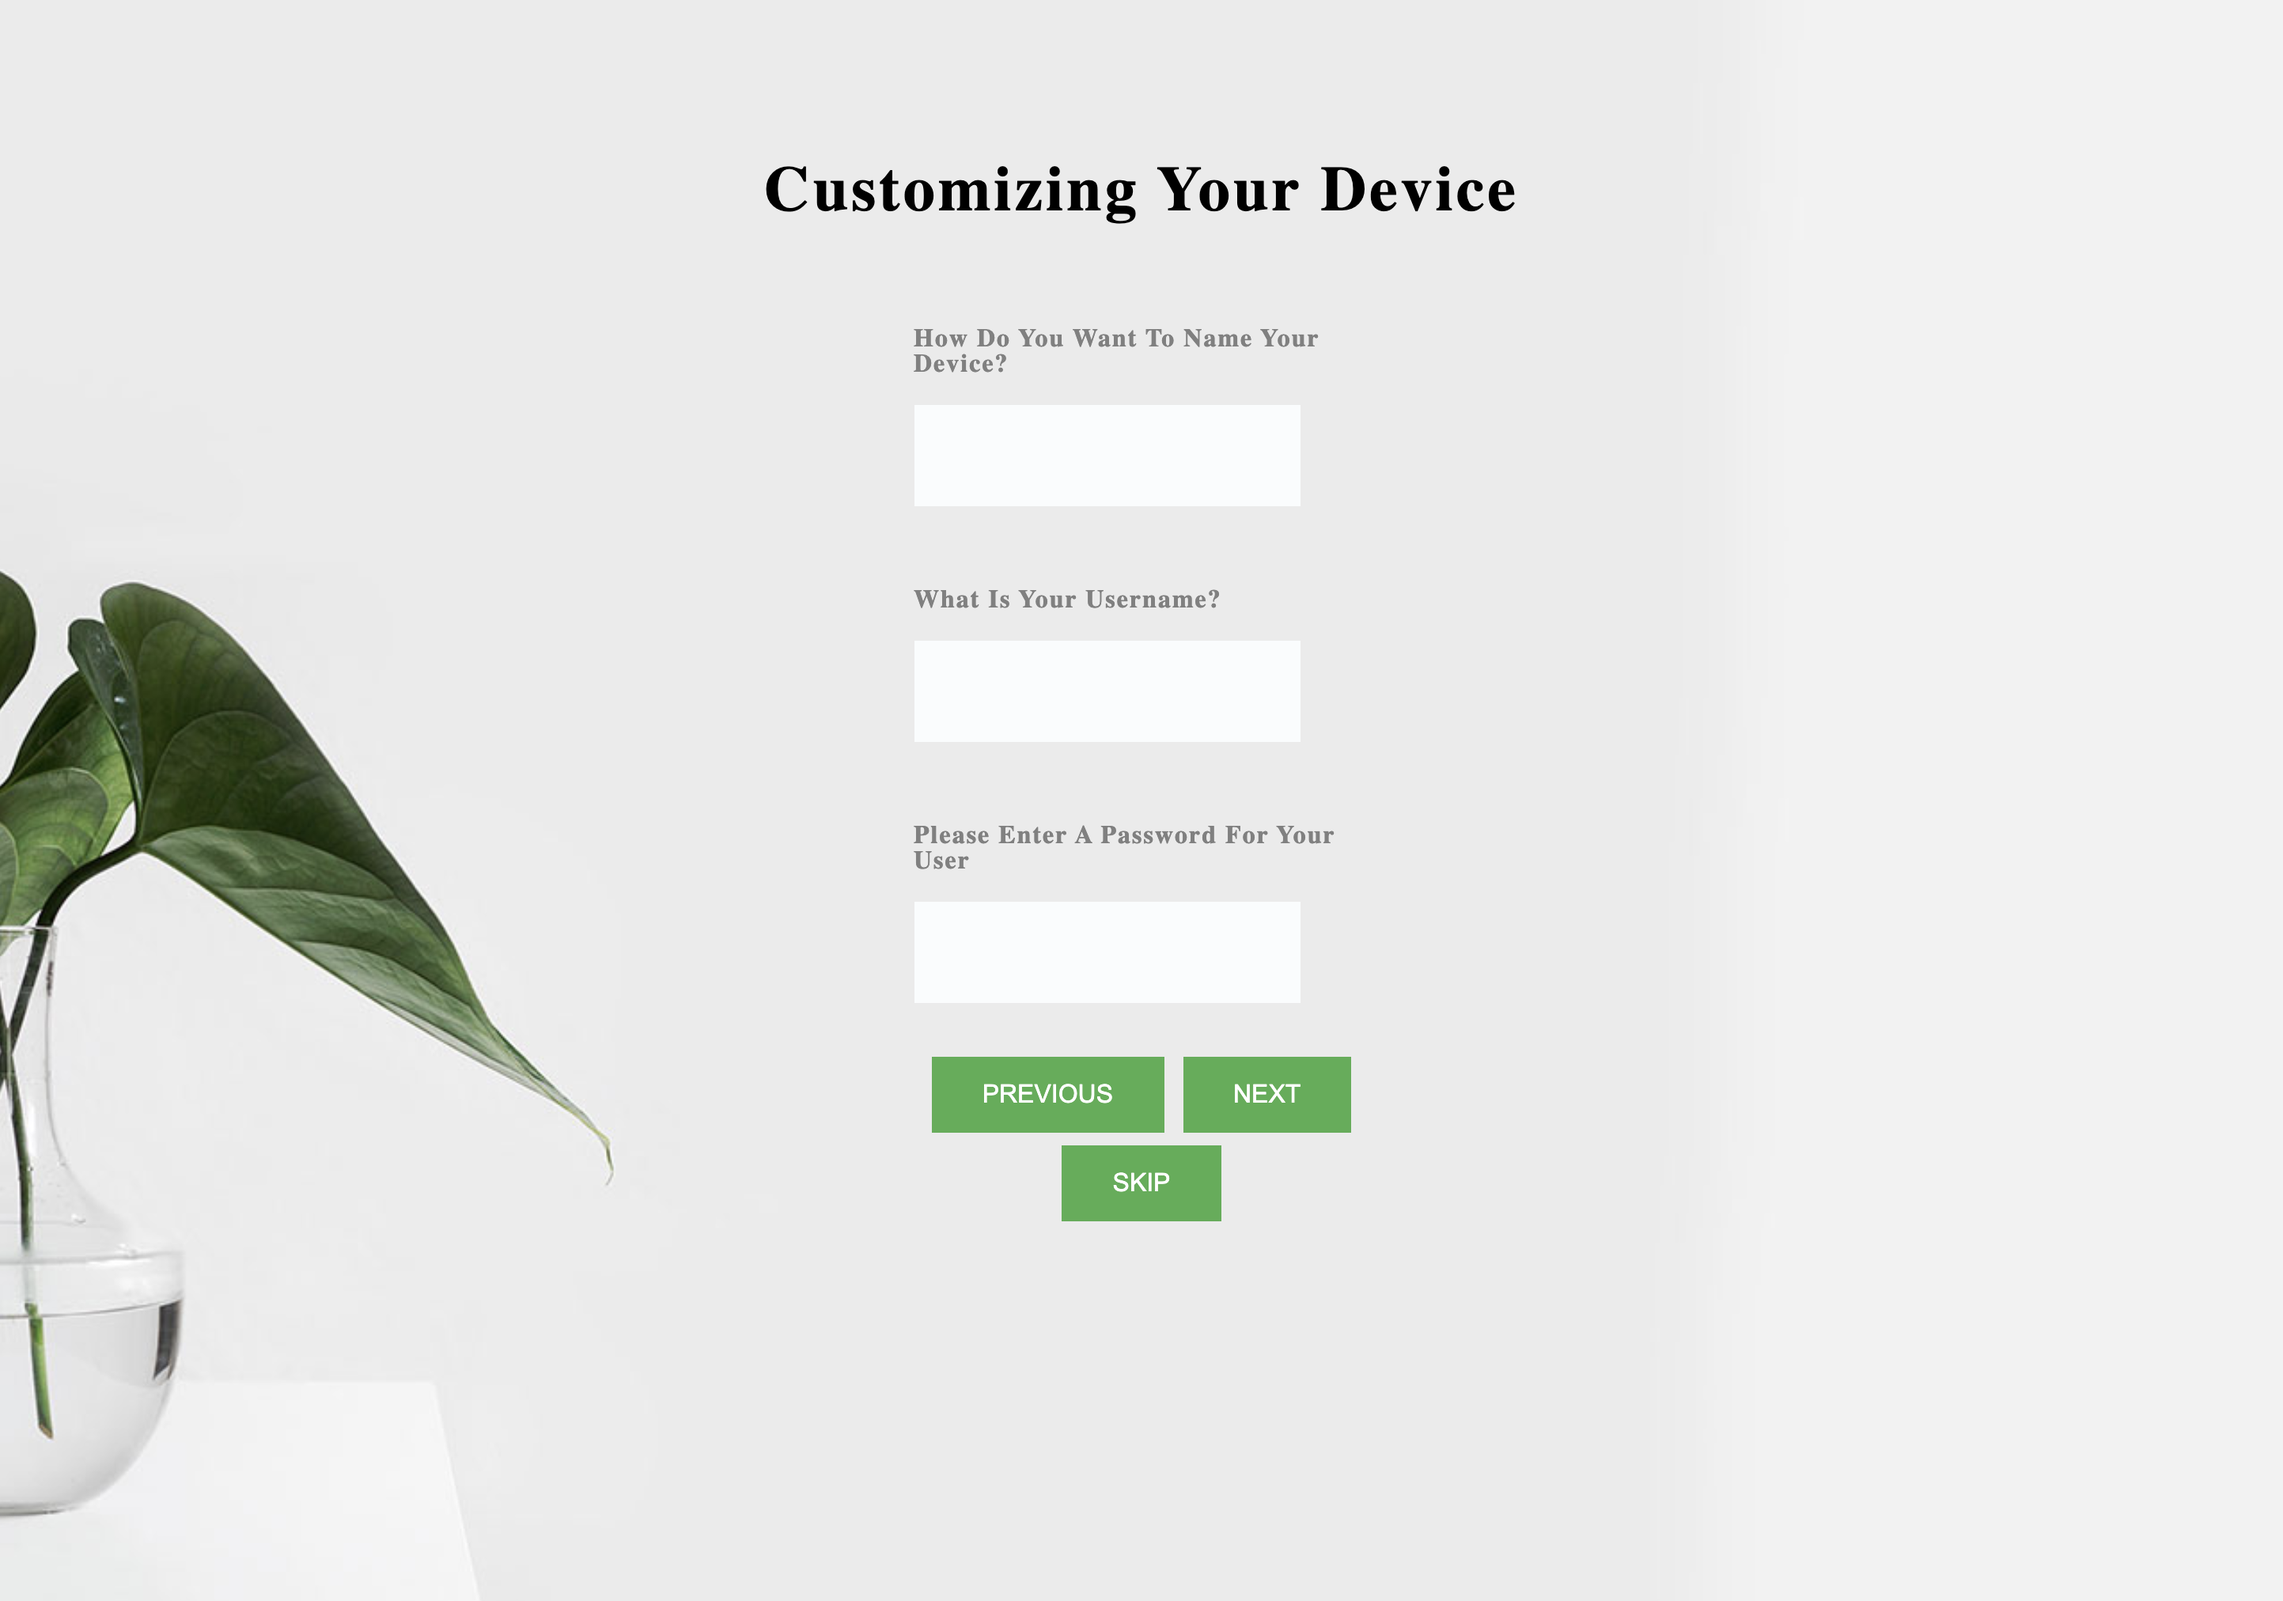
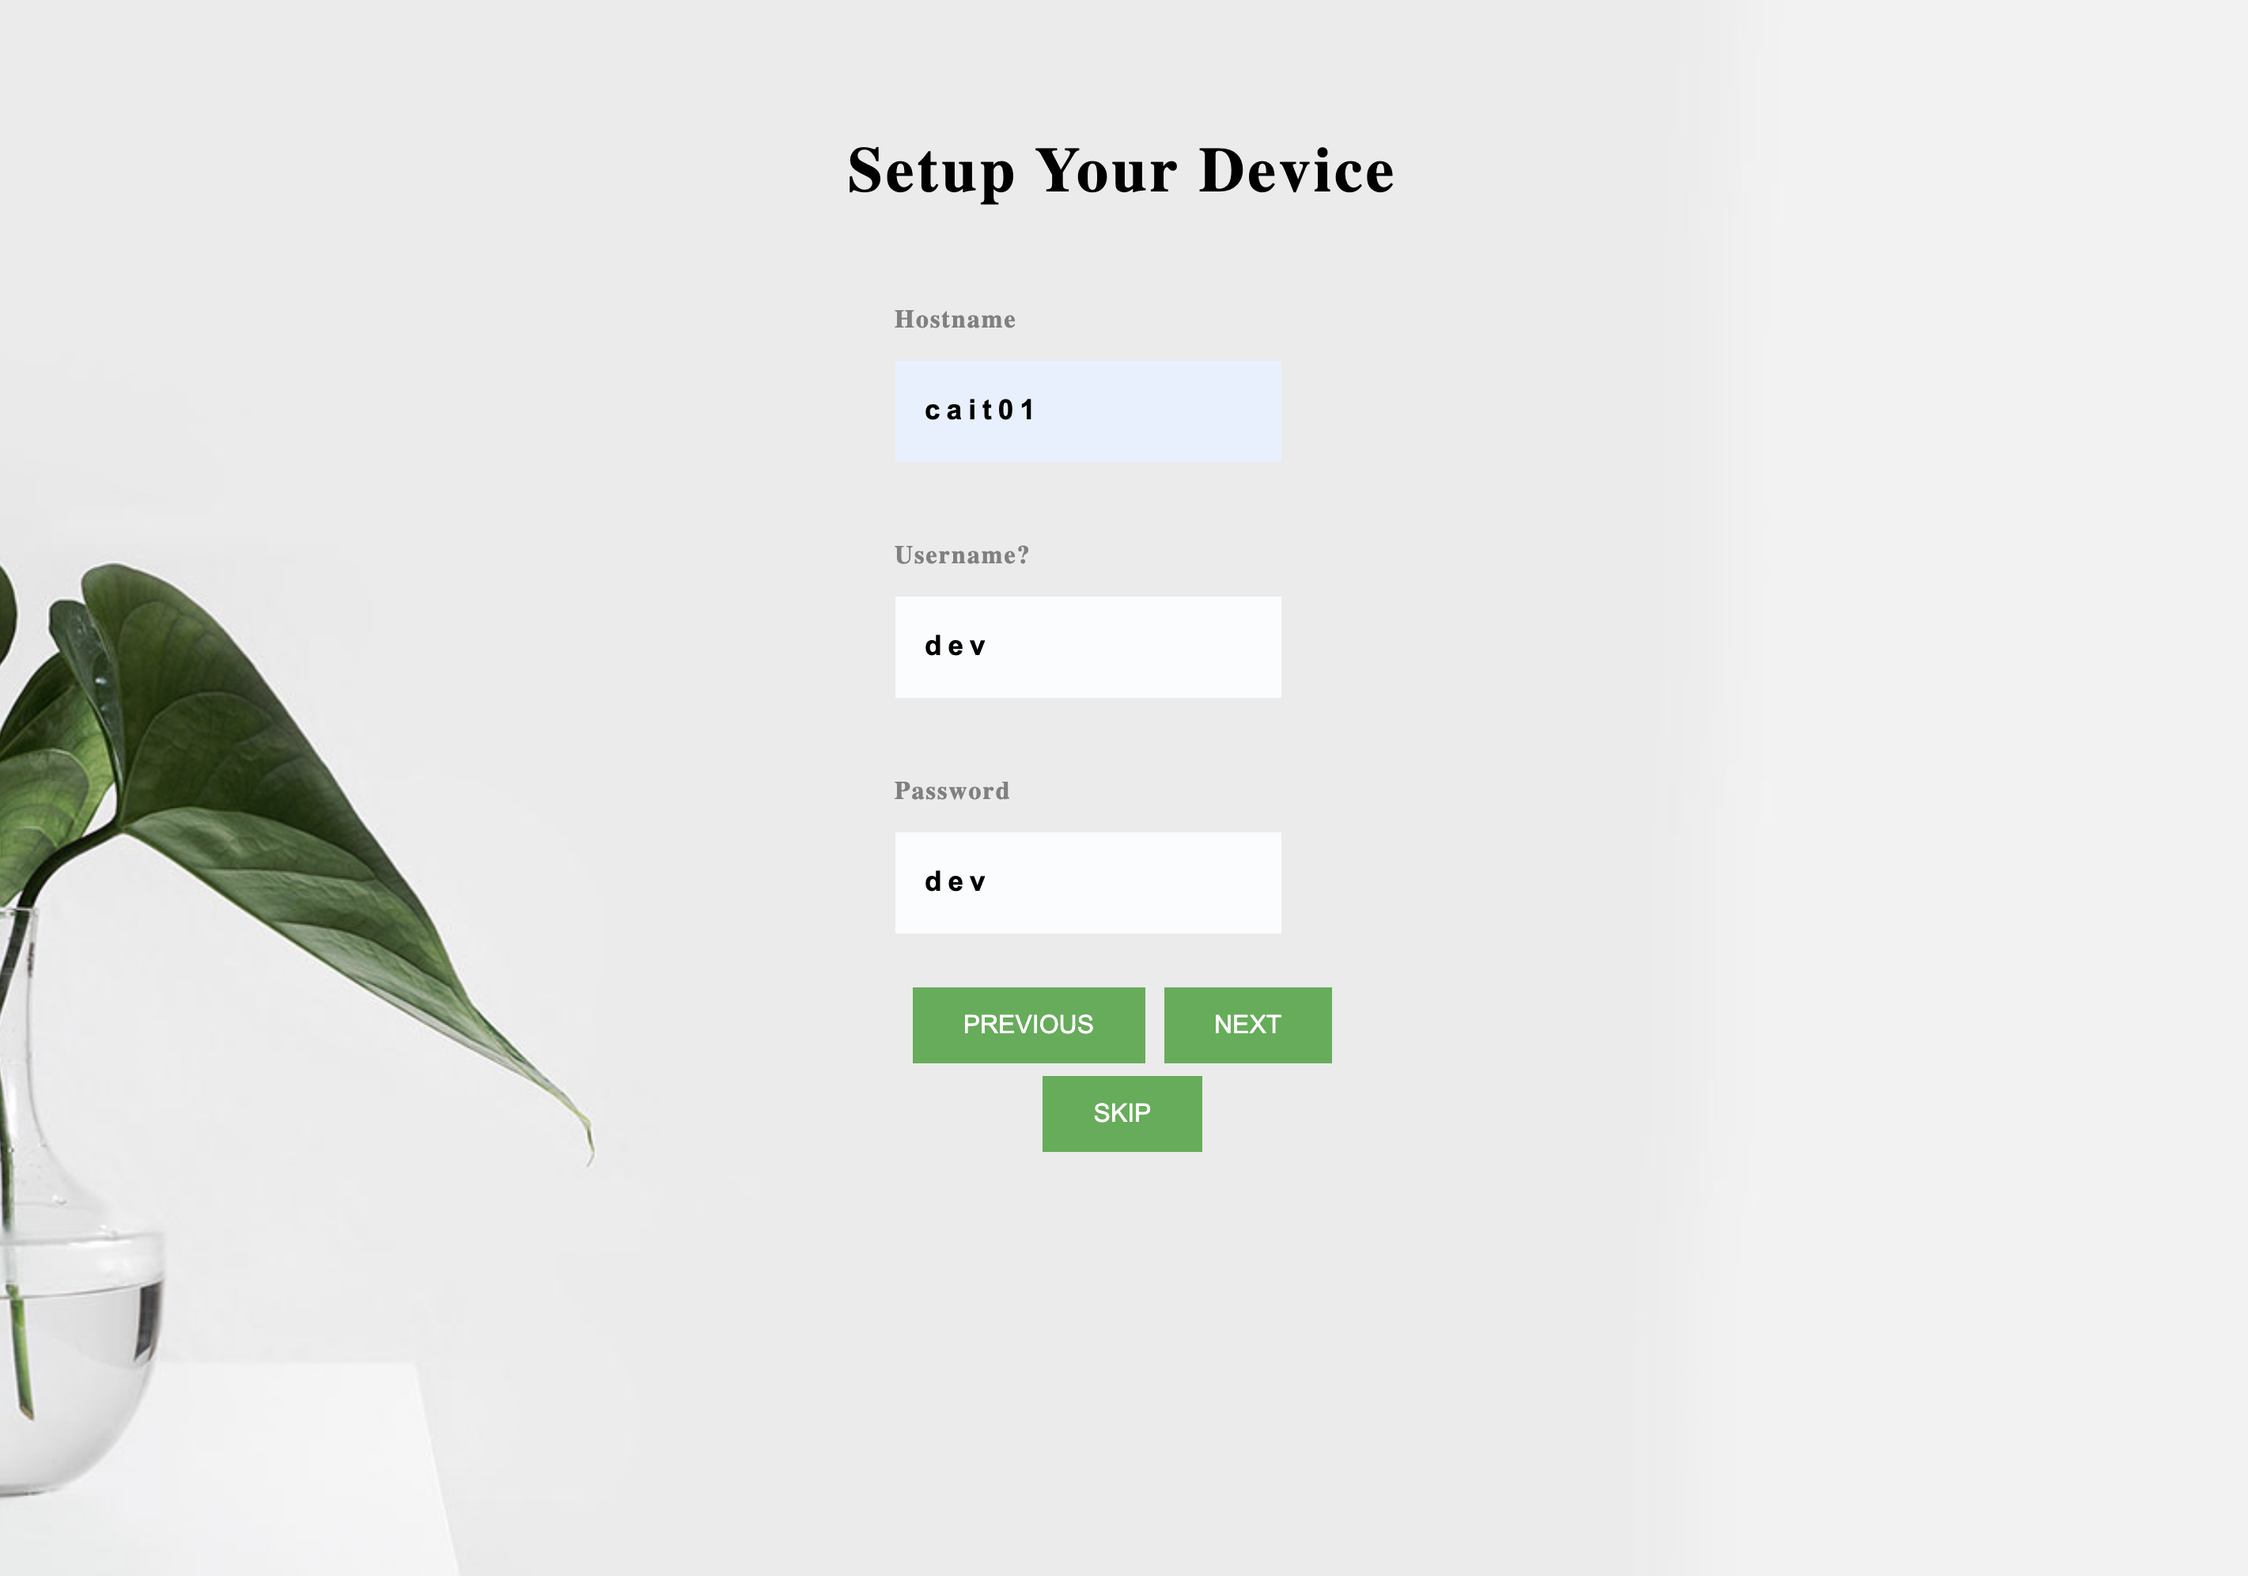
update setup flow text and screenshot

diff --git a/src/cortic_webapp/static/js/string_locale.js b/src/cortic_webapp/static/js/string_locale.js
@@ -161,23 +161,15 @@ var localizedStrings={
         'chs/CN':'登出'
     },
     setupWelcome:{
-        'en/US':'Welcome! This is the first step of customizing your own CAIT.',
-        'chs/CN':'欢迎！这是定制自己的CAIT的第一步。'
-    },
-    eula:{
-        'en/US':'End-User License Agreement ("Agreement")',
-        'chs/CN':'最终用户许可协议（“协议”）'
+        'en/US':'Welcome to the CAIT setup',
+        'chs/CN':'欢迎来到CAIT的设置页面'
     },
     lastUpdate:{
         'en/US':'Last updated: May 22, 2020',
         'chs/CN':'上次更新时间：2020年5月22日'
     },
-    agree:{
-        'en/US':'  I Agree ',
-        'chs/CN':' 我同意 '
-    },
     connectWifi:{
-        'en/US':"Let's connect to a WiFi network",
+        'en/US':"Connecting to WIFI network",
         'chs/CN':'让我们连接到WiFi网络'
     },
     selectedWifi:{
@@ -185,7 +177,7 @@ var localizedStrings={
         'chs/CN':'选择WiFi'
     },
     availWifi:{
-        'en/US':"Available WiFi",
+        'en/US':"Click for WIFI list",
         'chs/CN':'可用的Wifi'
     },
     enterPassword:{
@@ -221,23 +213,23 @@ var localizedStrings={
         'chs/CN':'开始设定'
     },
     customDevice:{
-        'en/US':'Customizing your device',
+        'en/US':'Setup your device',
         'chs/CN':'自定义您的设备'
     },
     nameDevice:{
-        'en/US':'How do you want to name your device?',
+        'en/US':'Hostname',
         'chs/CN':'您想如何命名您的设备？'
     },
     askUsername:{
-        'en/US':'What is your username?',
+        'en/US':'Username?',
         'chs/CN':'您的用户名是什么？'
     },
     askPassword:{
-        'en/US':'Please enter a password for your user',
+        'en/US':'Password',
         'chs/CN':'请输入您的用户密码'
     },
     testHardware:{
-        'en/US':'We will now test the connected camera and audio devices',
+        'en/US':'Peripheral test',
         'chs/CN':'现在，我们将测试连接的摄像头和音频设备'
     },
     availCam:{
@@ -265,8 +257,24 @@ var localizedStrings={
         'chs/CN':'初始化硬件'
     },
     thirdSignin:{
-        'en/US':"Let's sign in or register to third party cloud service provider, after creating an account, please enter the API key and Secret Key to below, then press the next button",
+        'en/US':"Cloud Service Provider",
         'chs/CN':'让我们登录或注册到第三方云服务提供商，创建帐户后，请在下面输入API Key和Secret Key，然后按下一步按钮'
+    },
+    thirdLoginin:{
+        'en/US':"Create Google Service Accont",
+        'chs/CN':'让我们登录或注册到第三方云服务提供商'
+    },
+    thirdsignin_explain:{
+        'en/US':"You may choose to connect to a cloud service provider for better speech recognition/generation performance.  However, if privacy is important to you, you may skip this step and opt to process audio inputs locally.",
+        'chs/CN':''
+    },
+    thirdsignin_upload:{
+        'en/US':"Please refer to the User Manual for a step by step Google setup guide",
+        'chs/CN':''
+    },
+    json_upload:{
+        'en/US':"Please upload the JSON file from Google",
+        'chs/CN':''
     },
     signinSuccess:{
         'en/US':"Sign in Success! Please press next button to continue.",
@@ -313,11 +321,11 @@ var localizedStrings={
         'chs/CN':'所有字段不能为空！'
     },
     congrats:{
-        'en/US':"Congratulation! CAIT is now all setup, click the button below to restart CAIT now",
+        'en/US':"Restart Your Device",
         'chs/CN':'恭喜你！现在已完成CAIT的所有设置，请单击下面的按钮立即重新启动CAIT'
     },
     reboot:{
-        'en/US':"Reboot CAIT",
+        'en/US':"Restart CAIT",
         'chs/CN':'重新启动CAIT'
     }
 }

diff --git a/src/cortic_webapp/templates/third_signin.html b/src/cortic_webapp/templates/third_signin.html
@@ -2,7 +2,9 @@
 <head>
   <title>CAIT Setup</title>
 	<meta charset="UTF-8">
-	<meta name="viewport" content="width=device-width, initial-scale=1">
+  <meta name="viewport" content="width=device-width, initial-scale=1">
+  <script src="{{url_for('static', filename='js/string_locale.js') }}"></script>
+  <script>var locale="en/US";</script>
 <!--===============================================================================================-->	
   <link rel="icon" type="image/png" href="/static/images/favicon.ico"/>
   <style>
@@ -13,8 +15,9 @@
     }
 
     p {
-        text-align: center;
         margin-top: 3vh;
+        width: 40rem;
+        margin-bottom: 3rem;
     }
 
     body {
@@ -30,8 +33,7 @@
     -webkit-box-pack: start;
             justify-content: flex-start;
     font-family: "Ek Mukta";
-    text-transform: uppercase;
-    font-weight: 600;
+    font-weight: 100;
     letter-spacing: 4px;
     background-image: url('/static/images/bg01.jpg');
     background-position: center;
@@ -64,6 +66,8 @@
     font-family: "Open Sans";
     font-weight: 700;
     color: grey;
+    margin-top: -1;
+    width: 21rem;
     }
 
     form {
@@ -110,23 +114,34 @@
         box-shadow: 0 12px 16px 0 rgba(0,0,0,0.24),0 17px 50px 0 rgba(0,0,0,0.19);
      }
 
+     .json-upload {
+       width: 22rem;
+     }
+
   </style>
 </head>
 
 <body>
-    <h1><span>Let's sign in to third party cloud service provider</span></h1> 
+    <h1><span id="thirdsignin_header"></span></h1> 
+    <script>document.getElementById('thirdsignin_header').innerHTML = localizedStrings.thirdSignin[locale];</script>
     <br>
     <br>
-    <button class="btn-general" id="thirdlogin" onclick="google_login()">Create Google Service Accont</button>
-    <h4>Please upload your google service account json file</h4>
+    <p id="thirdsignin_explain"></p>
+    <script>document.getElementById('thirdsignin_explain').innerHTML = localizedStrings.thirdsignin_explain[locale];</script>
+    <button class="btn-general" id="thirdlogin" onclick="google_login()"></button>
+    <script>document.getElementById('thirdlogin').innerHTML = localizedStrings.thirdLoginin[locale];</script>
+    <h4><span id="thirdsignin_upload"></span></h4>
+    <script>document.getElementById('thirdsignin_upload').innerHTML = localizedStrings.thirdsignin_upload[locale];</script>
     <br>
     <br>
-    <input type="file" id="account_json" name="account_json"><br><br>
-    <p>
+    <input class="json-upload" type="file" id="account_json" name="account_json">
+    <h4><span id="json_upload"></span></h4><br><br>
+    <script>document.getElementById('json_upload').innerHTML = localizedStrings.json_upload[locale];</script>
+    <div align="center">
       <button class="btn-next" type="button"  id="previous" onclick="prev()">Previous</button>
       <button class="btn-next" type="button"  id="upload_btn" onclick="upload_account()">Next</button>
       <button class="btn-next" type="button"  id="skip" onclick="skipThis()">Skip</button>
-    </p>
+    </div>
     <script>
       function google_login() {
         window.open("https://cloud.google.com/speech-to-text", '_blank');

diff --git a/src/cortic_webapp/templates/wifi.html b/src/cortic_webapp/templates/wifi.html
@@ -32,7 +32,6 @@
     -webkit-box-pack: start;
             justify-content: flex-start;
     font-family: "Ek Mukta";
-    text-transform: uppercase;
     font-weight: 600;
     letter-spacing: 4px;
     background-image: url('/static/images/bg01.jpg');
@@ -122,10 +121,11 @@
 
     .chosen-value {
     font-family: "Ek Mukta";
-    text-transform: uppercase;
-    font-weight: 600;
+    font-weight: 100;
     letter-spacing: 4px;
     height: 4rem;
+    width: 30rem;
+    margin-left: -5rem;
     font-size: 1.1rem;
     padding: 1rem;
     background-color: #fafcfd;
@@ -156,9 +156,12 @@
     .value-list {
     list-style: none;
     margin-top: 4rem;
+    margin-left: -5rem;
     box-shadow: 0px 5px 8px 0px rgba(0, 0, 0, 0.2);
     overflow: hidden;
     max-height: 0;
+    width: 30rem;
+    font-weight: 100;
     -webkit-transition: 0.3s ease-in-out;
     transition: 0.3s ease-in-out;
     }
@@ -300,7 +303,7 @@
     </div>
     <script>
       function prev() {
-        url = window.location.protocol + "//" +  window.location.hostname + "/agreement";
+        url = window.location.protocol + "//" +  window.location.hostname + "/setup";
         //console.log(url);
         window.location.href = url;
       }

diff --git a/src/cortic_webapp/templates/setup.html b/src/cortic_webapp/templates/setup.html
@@ -33,7 +33,7 @@
 			<p class="txt-center m1-txt1 p-t-33 p-b-68" id="WelcomeText">
 			</p>
 			<script>document.getElementById('WelcomeText').innerHTML = localizedStrings.setupWelcome[locale];</script>
-			<form action="/agreement" method="get" class="flex-w flex-c-m contact100-form validate-form p-t-55">
+			<form action="/wifi" method="get" class="flex-w flex-c-m contact100-form validate-form p-t-55">
 
 				<button class="flex-c-m s1-txt3 size3 how-btn trans-04 where1" id="startSetup">
 				</button>

diff --git a/src/cortic_webapp/main.py b/src/cortic_webapp/main.py
@@ -93,9 +93,6 @@ def setup():
 def prev_setup():
     return render_template('setup.html')
 
-@application.route('/agreement')
-def agreement():
-    return render_template('agreement.html')
 
 @application.route('/wifi')
 def wifi():
